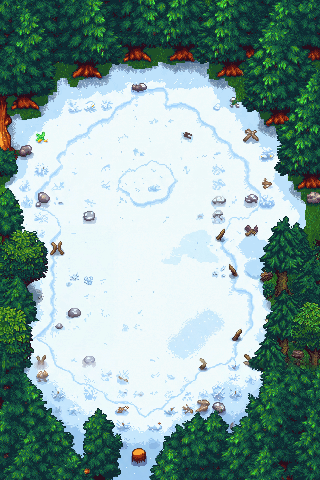
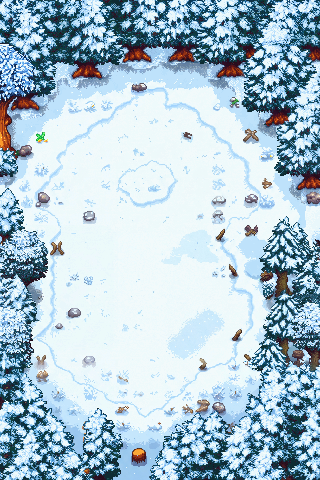
0.4.12: zimowy Obóz Szczodrych Godów (ukryty w grze do 1.12)
- W grudniu plansze Obozu i Warowni pod śniegiem, ścieżki wydeptane w śniegu, nad ogniskiem migoczące lampki, przy ognisku podłaźniczka i snopek z kalendarza (1054 przyjęte; plansze 1048 A, 1051 A, 1053 B).
- Wersja testowa ma zimowy Obóz codziennie.
- DECISIONS: mag zostaje klasą z trudniejszym startem (1055).

Claude-Session: https://claude.ai/code/session_01EFZUMqpHps3KDRogHBzjf3

diff --git a/test/winter.test.js b/test/winter.test.js
@@ -63,6 +63,17 @@ describe('the calendar of Szczodre Gody (1044)', () => {
     await (await db()).prepare('UPDATE sessions SET expires_at = ?').bind(Date.UTC(2027, 1, 1)).run();
   });
 
+  test('all of December the camp stands under snow with the decorations of the days taken; not before', async () => {
+    const camp = async (day) => (await call('GET', '/api/character', { cookie, now: noon(day) })).data.character.winterCamp;
+    assert.equal(await camp(0), null);
+    assert.deepEqual(await camp(1), { decorations: [] });
+    await (await db()).prepare("UPDATE characters SET winter = '{\"period\":\"2026-12\",\"taken\":[12,19]}' WHERE name = 'Kolędniczka'").run();
+    assert.deepEqual(await camp(20), { decorations: ['podlaznniczka', 'snopek'] });
+    // The camp stays to the 31st, after the calendar's last day.
+    assert.deepEqual(await camp(31), { decorations: ['podlaznniczka', 'snopek'] });
+    assert.equal(await camp(32), null);
+  });
+
   test('outside its days there is no calendar and nothing to take', async () => {
     const before = await call('GET', '/api/winter', { cookie, now: noon(0) });
     assert.equal(before.status, 200, JSON.stringify(before.data));

diff --git a/src/client/camp-art.js b/src/client/camp-art.js
@@ -585,7 +585,7 @@ function board(level, tall, winter = false) {
 // The winter camp's touches over the board (1044.3, Szczodre Gody), above
 // the buildings so that nothing hides them: a string of lights on two poles
 // over the campfire, twinkling one after another (styles.css, .camp-light;
-// still where the player asks for less motion), and the decorations of the
+// still with the game's calm look, motion.js), and the decorations of the
 // calendar's days taken (data/winter.json, decorations) by the fire: the
 // podłaźniczka hanging from the string, the snopek standing beside the fire.
 // In the board's units, moved down with the plots on the taller boards.

diff --git a/src/client/styles.css b/src/client/styles.css
@@ -5365,7 +5365,8 @@ a.camp-level-button {
 }
 
 /* The winter camp's lights by the campfire (camp-art.js, winterTouches):
-   each bulb glows and dims in its turn; still for less motion. */
+   each bulb glows and dims in its turn; still with the game's calm look
+   (motion.js). */
 .camp-light {
   animation: camp-light-twinkle 2.2s ease-in-out infinite;
 }
@@ -5373,8 +5374,8 @@ a.camp-level-button {
   0%, 100% { opacity: 1; }
   50% { opacity: 0.55; }
 }
-@media (prefers-reduced-motion: reduce) {
-  .camp-light { animation: none; }
+.calm .camp-light {
+  animation: none;
 }
 
 /* The living camp (screens/camp.js). The glade and its buildings take the

diff --git a/DECISIONS.md b/DECISIONS.md
@@ -3609,6 +3609,19 @@ Rozstrzygnięte najprostszym rozwiązaniem zgodnym z przyjętymi makietami (1044
 9. **Zimowy Obóz:** polana w stylu 1048 A. Ten sam śnieg PixelLab kładzie na pozostałe plansze: Obóz z poziomów 4–7 i 8–10 oraz Warownię (1051 na stronie ocen). Wyższe plansze z Osadą biorą górę i dół zaśnieżonej zwykłej planszy, a PixelLab domalowuje tylko wstawiony pas w środku. Warownia (320 × 729) jest malowana w dwóch oknach po 512 wierszy, bo PixelLab zamalowuje najwyżej 512 × 512. Autor 17.11.2026: Obóz 4–7 A, Obóz 8–10 A, Warownia A, wyższa plansza Obozu 1–3 przyjęta (1051), z uwagą „spraw by na zewnątrz Obozu tez była zimowa aura”: śnieg ma objąć też drzewa i ziemię za płotem i murami (krok z 1053).
 10. **Zimowe skórki (1049, autor 17.11.2026: „Do tego trzeba zrobić teraz skórki postaci zimowe”).** Każda klasa dostaje zimową skórkę, która jak każda skórka działa przy wszystkich ewolucjach i dla obu płci. Do kupienia w Sklepie Systemu za 800 Punktów Systemu, tylko w grudniu (1049 A). Przyjęte męskie portrety: Mag D i Kleryk D. Wojownik, Łucznik i Cień idą od nowa: autor: „Co to za chibi styl nagle, ma byc taki jak wcześniej”, „mało epickie i świąteczne” i „ma być na cały rozstrzał klas po ewolucji przecież”. Wzorem proporcji są przyjęte skórki tej klasy (Pancerz Peruna, Strój Leśnego Pana, Płaszcz Nocnego Kruka), a z portretu klasy brana jest tylko twarz (1052). Do gry wejdą z pełną grafiką: portrety obu płci, chody, jazda wierzchem i odcienie skóry. Druga runda (1052): Wojownik A, Łucznik C, Cień D, Mag (kobieta) C przyjęci. Kleryk idzie od nowa w obu płciach, bo autor: „zrób jednak i żeńską i męską od nowa, bo za mało odróżniają się od oryginałów, więcej zimowej aury”. Kremowo-złoty kożuch był za bliski skórce Szaty Świtu, więc nowy Kleryk ma karmazynowy płaszcz podbity futrem, szaty w kolorze lodu ze srebrnym haftem szronu, wieniec z jodły i kij z gwiazdą kolędniczą.
 
+## Mag na początku gry: bez zmian (1055, 17.11.2026)
+
+Symulacje przy sprawdzaniu many (1045) pokazały, że mag na 11.–29. poziomie mdleje na wyprawach w najnowszym miejscu dużo częściej niż inne klasy. Dobrze wyposażony gracz bez towarzyszy, z samą Kulą ognia, mdleje na 15. poziomie w 73% godzinnych wypraw, na 20. w 31%, a na 25. w 13%. Inne klasy mdleją w 0%. Z Osłoną many jest lepiej od 20. poziomu. Autor odrzucił wszystkie warianty (bez zmian, Arkanowa bariera do 29. poziomu, lepsza regeneracja): „nie ulepszamy maga jest określony jako klasa z trudniejszym startem”. Mag zostaje klasą z trudniejszym startem.
+
+## Wersja 0.4.12 (17.11.2026): zimowy Obóz Szczodrych Godów (ukryty do 1.12)
+
+1. **Zimowy Obóz (1044.3; makiety 1054 przyjęte; plansze 1048 A, 1051 A i 1053 B).**
+   - Przez cały grudzień plansze Obozu i Warowni są pod śniegiem (`board-winter`, `board-tall-winter` i `board-fortress-winter` w `src/client/art.js`), a ścieżki są wydeptane w śniegu.
+   - Nad ogniskiem wisi sznur kolorowych lampek na dwóch tyczkach (`winterArt` w `src/client/camp-art.js`). Lampki migoczą po kolei i nocą świecą mocniej niż reszta Obozu. W spokojnym wyglądzie gry, czyli z wyłączonymi animacjami, stoją.
+   - Ozdoby z kalendarza stoją przy ognisku od dnia, w którym postać je odebrała: podłaźniczka wisi na sznurze lampek, a snopek stoi obok ogniska.
+   - Serwer podaje zimowy Obóz w widoku postaci (`winterCamp`, `winterCampView` w `src/server/winter.js`); poza grudniem jest tam `null`. Wersja testowa ma zimowy Obóz codziennie.
+   - Plansza Obozu z poziomów 1–3 ma już oszronione drzewa (1053 B). Pozostałe plansze mają na razie śnieg tylko na polanie. Śnieg za płotem i murami (autor przy 1051: „spraw by na zewnątrz Obozu tez była zimowa aura”) PixelLab dorysuje, gdy znów będzie miał generacje.
+
 ## Wersja 0.4.11 (17.11.2026): Portale do 500. stopnia
 
 1. **Portale do 500. stopnia.** Autor: „Portale trzeba zwiększyć tak daleko jak to możliwe”, po pytaniu gracza na czacie, czemu portal kończy się na setce. Ostatni stopień każdego portalu to teraz najwyższy poziom postaci, 500 (`maxStage` w `data/portals.json`; wcześniej 100, „Na start 100 poziomów”). Jak dotąd postać walczy najwyżej o stopień równy swojemu poziomowi.
